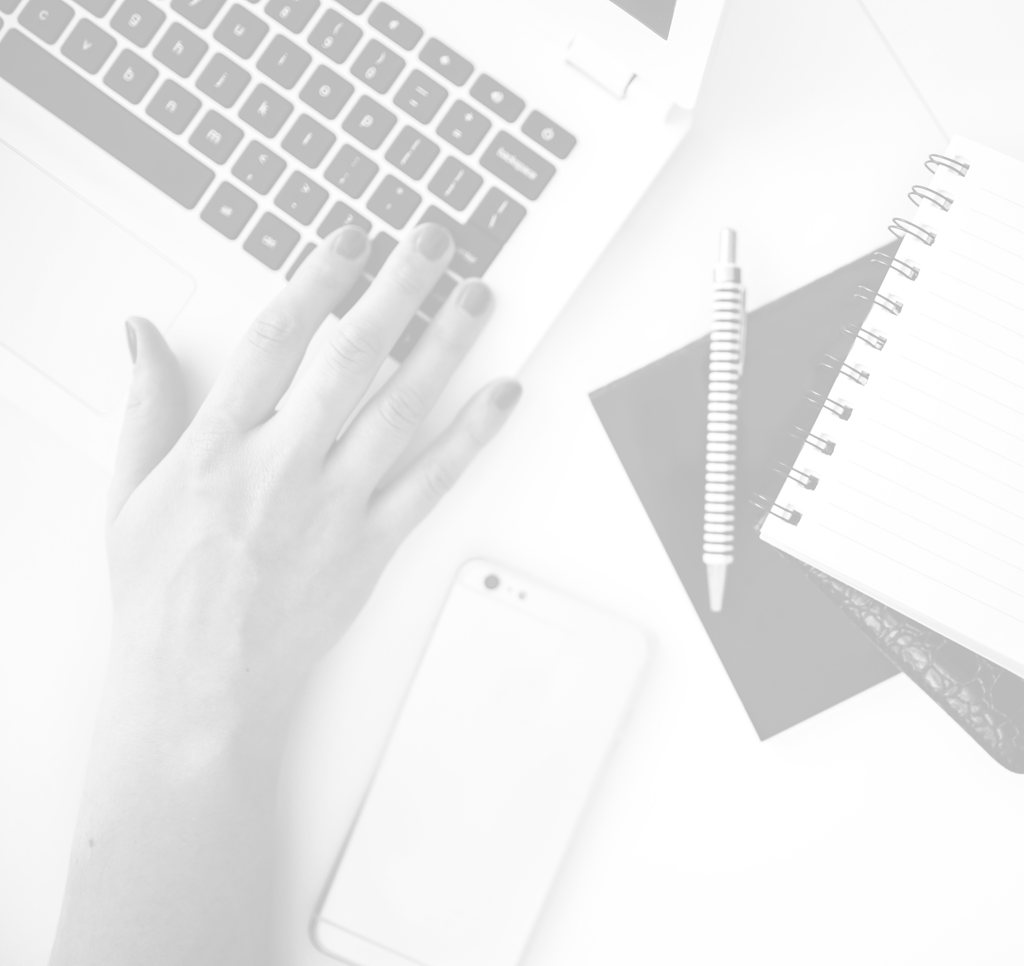
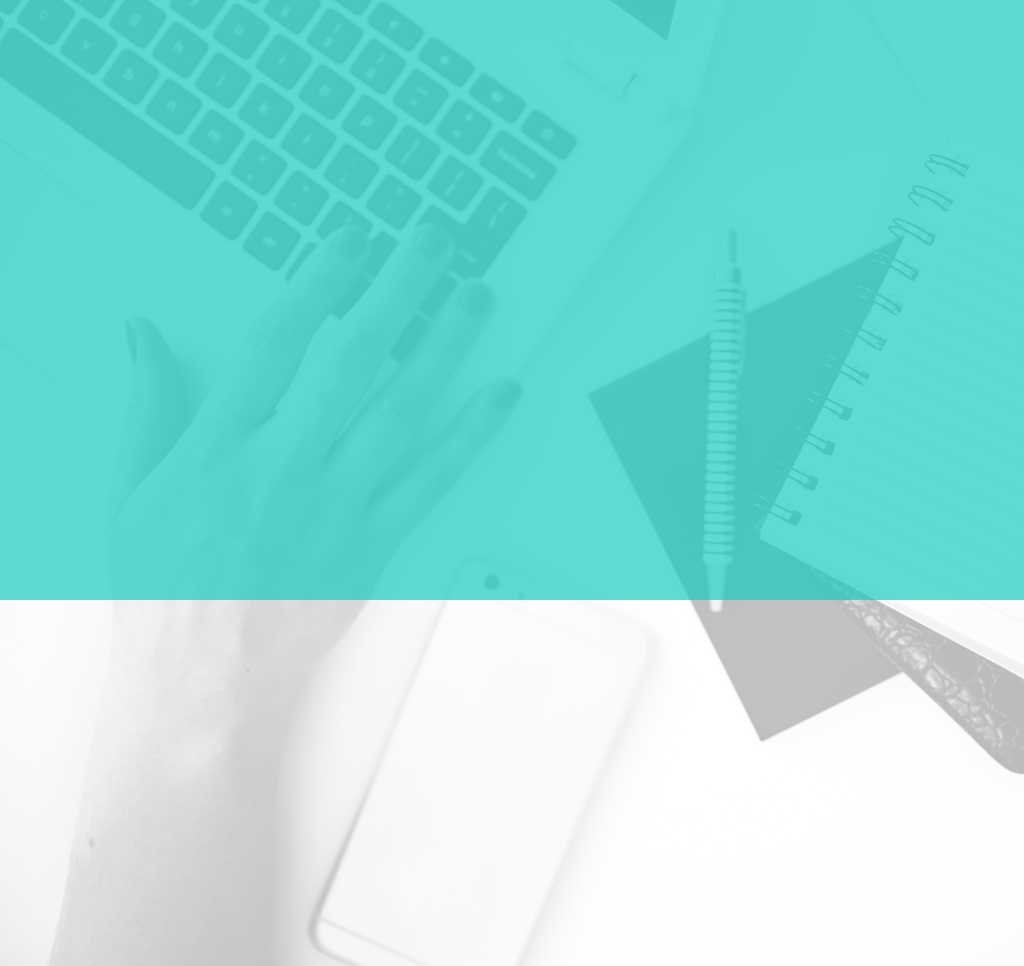
Added all pages

diff --git a/cabinet.html b/cabinet.html
@@ -1,0 +1,218 @@
+<!DOCTYPE html>
+<html lang="en">
+<head>
+
+  <!-- Basic Page Needs
+  –––––––––––––––––––––––––––––––––––––––––––––––––– -->
+  <meta charset="utf-8">
+  <title>Cabinet</title>
+  <meta name="description" content="Case Study for Cabinet web app and site design">
+  <meta name="author" content="Brooke Barnhardt">
+
+  <!-- Mobile Specific Metas
+  –––––––––––––––––––––––––––––––––––––––––––––––––– -->
+  <meta name="viewport" content="width=device-width, initial-scale=1">
+
+  <!-- FONT
+  –––––––––––––––––––––––––––––––––––––––––––––––––– -->
+  <link href="//fonts.googleapis.com/css?family=Raleway:400,300,600" rel="stylesheet" type="text/css">
+<script src="https://use.typekit.net/pzz6uut.js"></script>
+<script>try{Typekit.load({ async: true });}catch(e){}</script>
+
+  <!-- CSS
+  –––––––––––––––––––––––––––––––––––––––––––––––––– -->
+  <link rel="stylesheet" href="css/normalize.css">
+  <link rel="stylesheet" href="css/skeleton.css">
+
+  <!-- Favicon
+  –––––––––––––––––––––––––––––––––––––––––––––––––– -->
+  <link rel="icon" type="image/png" href="images/favicon.png">
+
+</head>
+<body>
+
+   <!-- Header
+  –––––––––––––––––––––––––––––––––––––––––––––––––– -->
+<div id="c-header" class="c">
+  <div class="container">
+    <header class="twelve columns">
+        <div class="logo">
+         <a href="index.html"><img src="images/logo.png"/></a>
+        </div>
+      
+       <div class="nav">
+          <ul>
+            <li><a href="#work">work</a></li>
+            <li><a href="#about">about</a></li>
+            <li><a href="#contact">say hello</a></li>
+         </ul>
+      </div>
+    </header>
+      <div class="header">
+        <div class="title">
+            <h6>UI/UX Design</h6>
+            <h1>Cabinet</h1>
+             <h5>A web app that lets you collect and sort information. Create simple notes, store images, and add inks.</h5>
+        </div>
+      </div>
+
+        <div class="arrow">
+        <a href="#work"><img src="images/down-arrow.png" alt="down-arrow"/></a>
+        </div>
+  </div>
+</div>
+
+<!-- Challenge
+  –––––––––––––––––––––––––––––––––––––––––––––––––– -->
+<div class="challenge section dark">
+  <div class="container">
+    <div class="twelve columns">
+       <h6>The Challenge</h6>
+       <h3>Save, Sort & Share Everything</h3>
+        <h5>With so many products out there for saving content - Evernote, Pinterest, Dragdis, Pocket- it can be difficult to
+know which one to choose. Some do a good job saving just images or just articles, but none of them do an
+excellent job saving a variety of content in a visually appealing way. Cabinet allows you to save a variety of
+content - websites, images and text documents all in one place. You can file this content into different project
+folders that you can then share with collaborators. It is the perfect solution for visual users to organize
+everything they find on the internet.</h5>
+    </div>
+  </div>
+</div>
+
+<!-- Research + Discovery
+  –––––––––––––––––––––––––––––––––––––––––––––––––– -->
+<div class="research section light">
+  <div class="container">
+    <div class="twelve columns">
+       <h6>Research + Discovery</h6>
+       <h3>Content Keepers</h3>
+        <h5>I started this project with some research into online habits. I posted a survey that asked participants
+about the various ways that they save and create content online. Using the data from the survey, I
+made a plan for how the app should be structured as well as a list of features that users would like. </h5>
+    </div>
+ 
+ <!-- Personas--> 
+  <div class="row">
+      <div class="one-third column">
+          <img src="images/c/content.png" alt="linda persona" class="persona"/>
+      </div>
+
+      <div class="one-third column">
+          <img src="images/c/tools.png" alt="logan persona" class="persona"/>
+      </div>
+
+      <div class="one-third column">
+          <img src="images/c/write.png" alt="hannah persona" class="persona"/>
+      </div>
+  </div>
+
+  <div class="row last">
+      <div class="one-third column">
+          <img src="images/c/save.png" alt="eric persona" class="persona"/>
+      </div>
+
+      <div class="one-third column">
+          <img src="images/c/link.png" alt="monica persona" class="persona"/>
+      </div>
+
+      <div class="one-third column">
+          <img src="images/c/share.png" alt="adam persona" class="persona"/>
+      </div>
+  </div>
+
+    <div class="twelve columns">
+        <h5>I created a list of user stories that helped me determine which pages and features I needed to
+include in the design. I then developed a series of user flows and figured out how the personas
+would move through the site. </h5>
+    </div>
+</div>
+</div>
+
+ <!-- Personas--> 
+  <div class="persona terrence">
+    <div class="bio four columns">
+    <h4>Terrence</h4>
+    <h5>Age: 36</h5>
+    <h5>Location: San Francisco, CA</h5>
+    <h5>"Inspiration Collector & Sharer"</h5>
+    <p>Terrence has worked at the same creative firm for 7 years
+now. He is constantly scouring the internet for inspiration. He
+needs a well-organized and visually-appealing way to
+store reference images and articles. He often shares these
+things with his team to inspire or educate them on some
+aspect of design.</p>
+    </div>
+
+    <div class="image">
+    </div>
+</div>
+</div>
+
+  <!-- User Flows
+  –––––––––––––––––––––––––––––––––––––––––––––––––– -->
+<div class="c-flows section light">
+  <div class="container">
+    <div class="twelve columns">
+       <!--<h6>Research + Discovery</h6>-->
+       <h3>User Flows</h3>
+        <h5>To determine how users would navigate around the site, I created user flows for different scenarios
+including when new users visit the homepage or sign up, when returning users sign in, and then
+when all users access the dashboard. </h5>
+    </div>
+  </div>
+    <div class="image">
+    </div>
+</div>
+
+<!-- Wireframes
+  –––––––––––––––––––––––––––––––––––––––––––––––––– -->
+<div class="sketches section light">
+ <div class="container">
+    <div class="twelve columns">
+        <!--<h6>Research + Discovery</h6>-->
+       <h3>Wireframes</h3>
+    </div>
+  </div>
+
+    <div class="image c-wires">
+    </div>
+
+  </div>
+
+  <!-- Promotion
+  –––––––––––––––––––––––––––––––––––––––––––––––––– -->
+<div class="mockup section light">
+  <div class="container">
+        <div class="mac cab">
+        <img src="images/c/website.png" alt="cabinet site design"/>
+        </div>
+
+          <div class="more">
+          <a href="http://ebarnhardt.github.io/Blocbox/dashboard.html"><button type="button" class="button-gray">View Prototype</button></a>
+          </div>
+
+    </div>
+  </div>
+
+<!-- Testing
+  –––––––––––––––––––––––––––––––––––––––––––––––––– -->
+<div class="testing section dark">
+  <div class="container">
+    <div class="twelve columns">
+       <h3>User Testing</h3>
+        <h5>I ran a variety of tests on both the dashboard and the promotion page using Invision, UsabilityHub
+and Peek by UserTesting. I received some positive feedback from testers including that they found
+the site trustworthy as well as valuable. One test looked at preference for the location of the add
+button. Since users preferred it be placed with the left side navigation, I moved it there since it is
+one of the most important features of the dashboard. </h5>
+    </div>
+    <div class="test">
+      <img src="images/c/test.png" alt="preference test"/>
+     </div>
+    </div>
+</div>
+
+<!-- End Document
+  –––––––––––––––––––––––––––––––––––––––––––––––––– -->
+</body>
+</html>

diff --git a/css/skeleton.css b/css/skeleton.css
@@ -855,6 +855,50 @@ margin-bottom: 70px;
   color: #929292;
 }
 
+/* Cabinet Case Study
+–––––––––––––––––––––––––––––––––––––––––––––––––– */
+.c {
+  background-image: url(../images/c/hand.png);
+  background-size: cover;
+  background-color: #11C9C0;
+}
+
+#c-header {
+  height: 100vh;
+  background-size: cover;
+}
+
+.last {
+  padding: 50px 0 5px 0;
+}
+
+.terrence {
+  clear: both;
+  background-image: url(../images/c/terrence.png);
+  background-size: cover;
+}
+
+.c-flows .image{
+  background-image: url(../images/c/flows.png);
+  background-size: cover;
+  clear: both;
+}
+
+.c-wires {
+  background-image: url(../images/c/wireframes.png);
+  background-size: cover;
+  clear: both;
+}
+
+.cab {
+  margin-bottom: 0;
+}
+
+.test {
+  text-align: center;
+  margin-bottom: 100px;
+}
+
 /* Media Queries
 –––––––––––––––––––––––––––––––––––––––––––––––––– */
 /*
